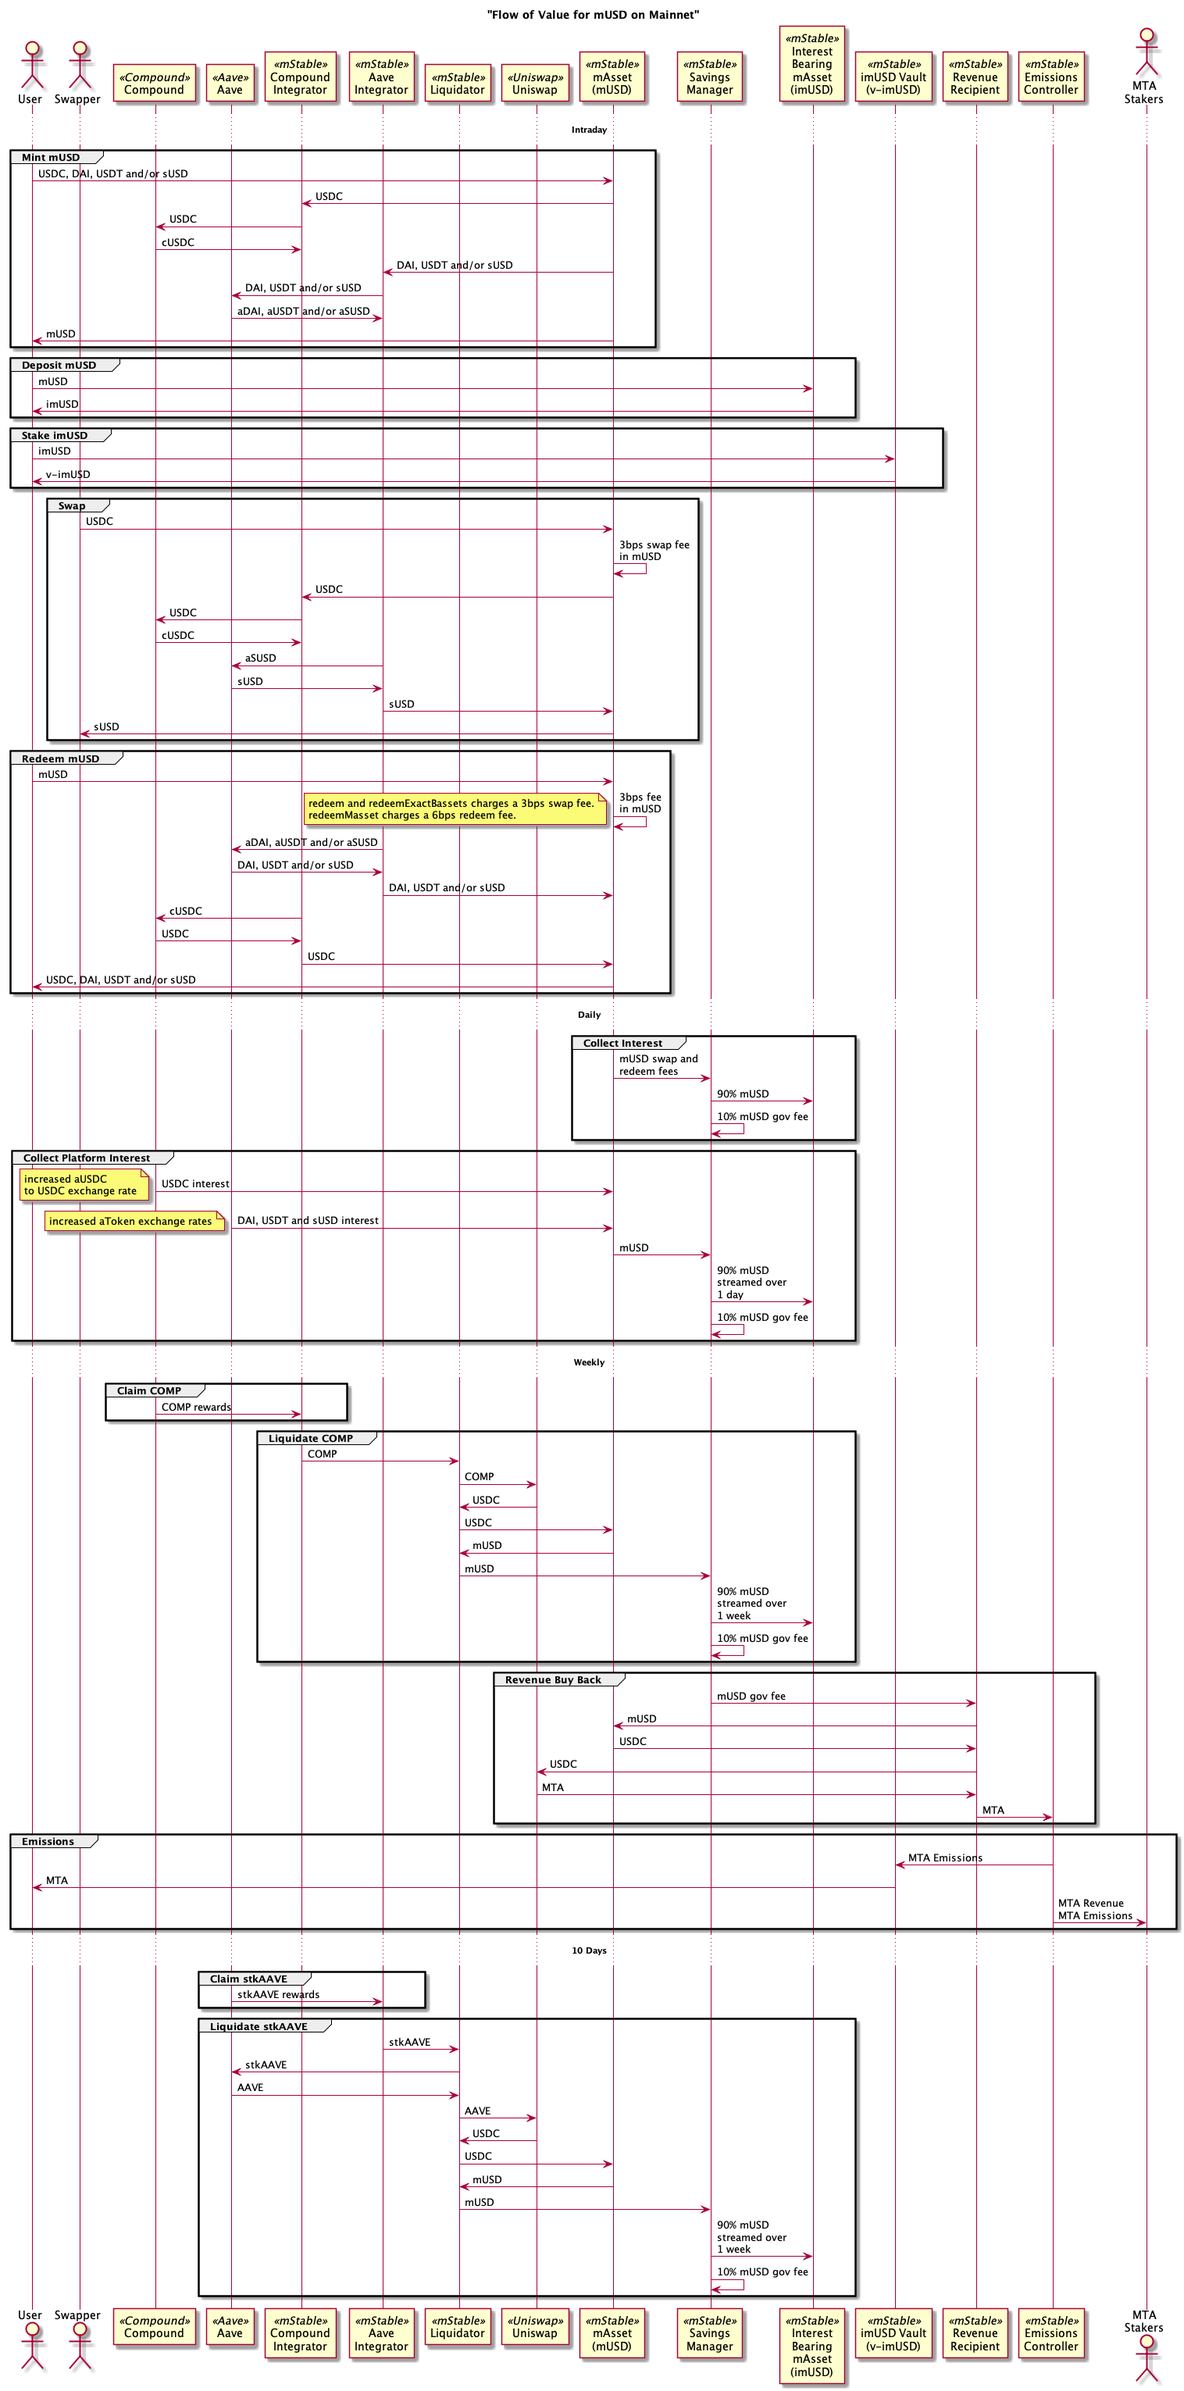
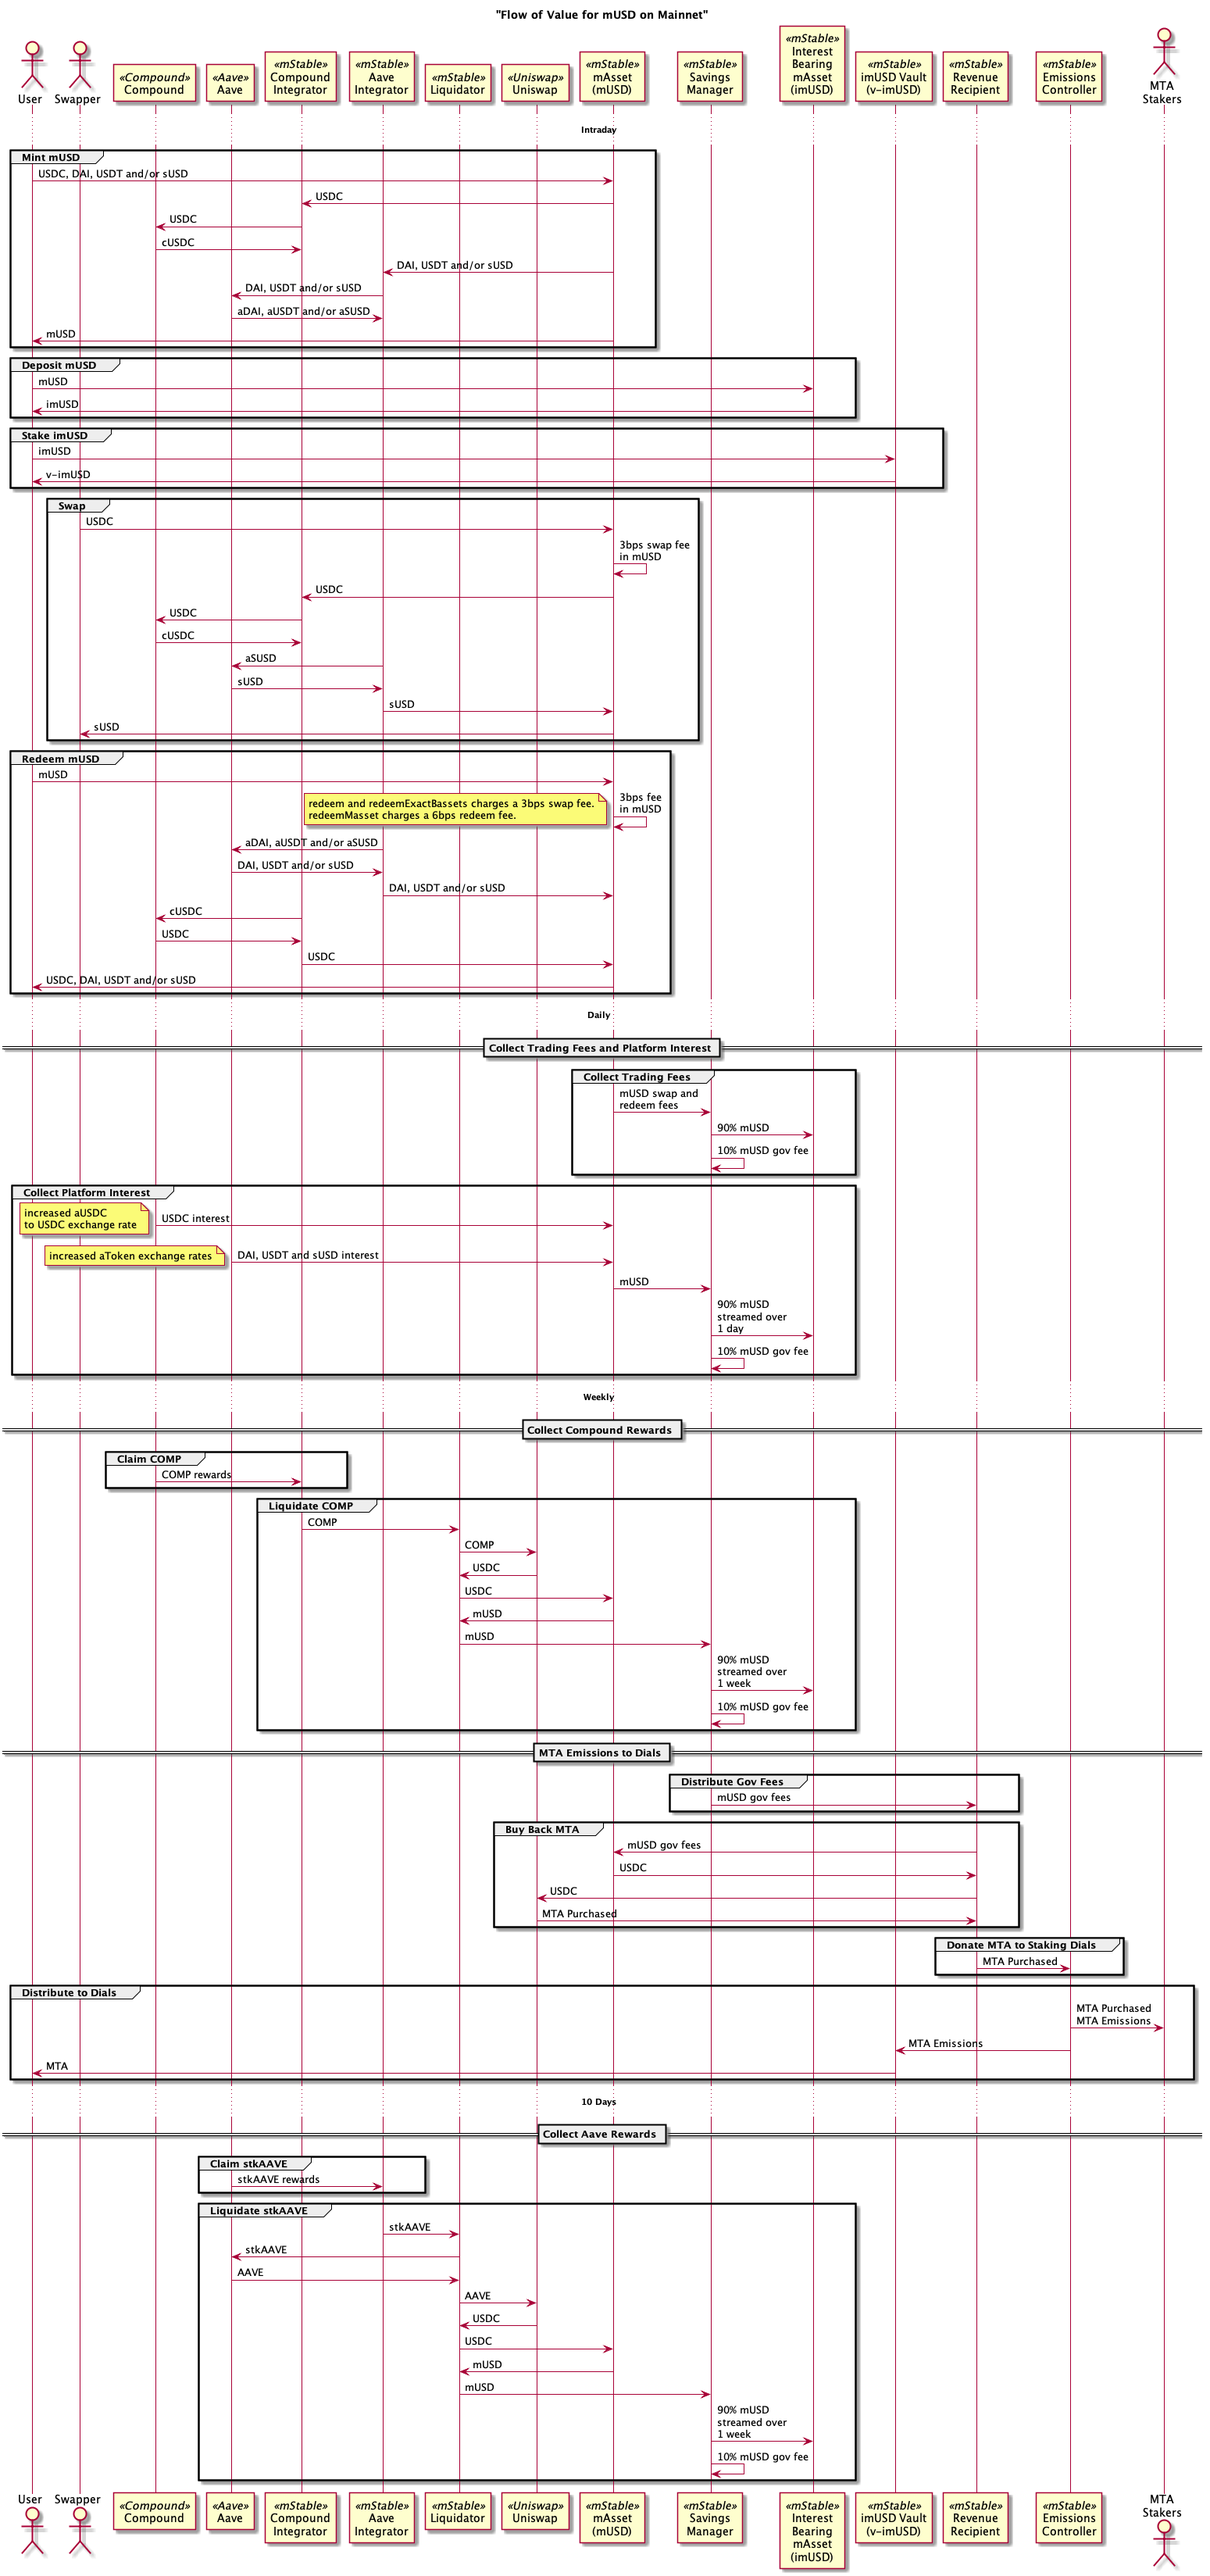
chore: updated value flows

diff --git a/README.md b/README.md
@@ -25,7 +25,7 @@ Token transfers between contracts.
 [tx2uml](https://github.com/naddison36/tx2uml) traces of real transactions.
 
 * [Save Wapper](./traces/README.md)
-* [Staking V2](./stakingV2/README.md)
+* [Staking V2](./stakingv2/README.md)
 
 ## PlantUML
 
